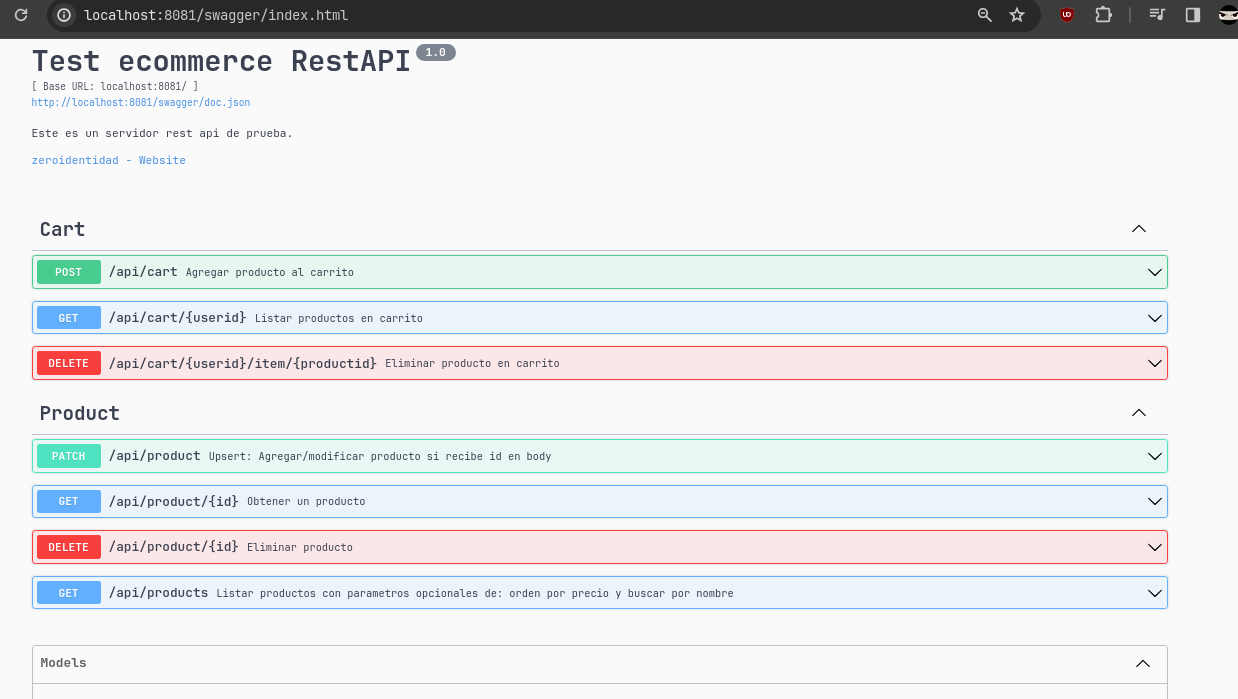
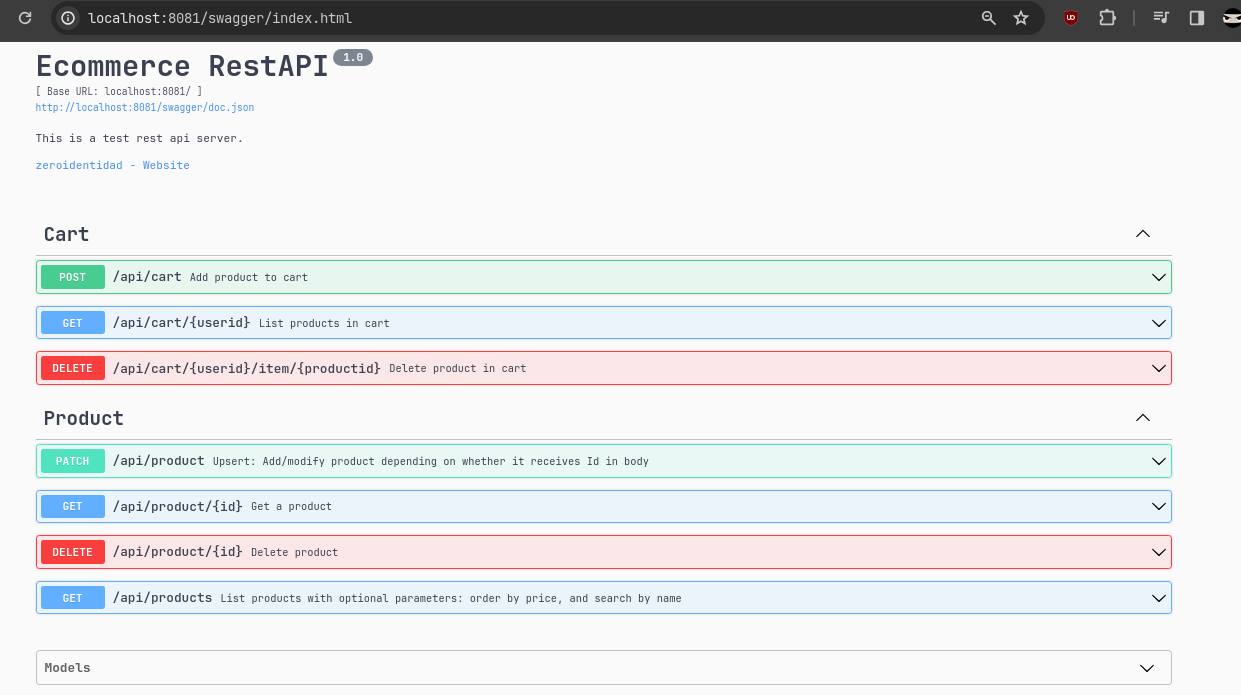
fix translation typos

diff --git a/internal/transport/http/docs/docs.go b/internal/transport/http/docs/docs.go
@@ -29,7 +29,7 @@ const docTemplate = `{
                 "tags": [
                     "Cart"
                 ],
-                "summary": "Agregar producto al carrito",
+                "summary": "Add product to cart",
                 "parameters": [
                     {
                         "description": "Cart data",
@@ -59,11 +59,11 @@ const docTemplate = `{
                 "tags": [
                     "Cart"
                 ],
-                "summary": "Listar productos en carrito",
+                "summary": "List products in cart",
                 "parameters": [
                     {
                         "type": "string",
-                        "description": "Id usuario",
+                        "description": "user Id",
                         "name": "userid",
                         "in": "path",
                         "required": true
@@ -90,18 +90,18 @@ const docTemplate = `{
                 "tags": [
                     "Cart"
                 ],
-                "summary": "Eliminar producto en carrito",
+                "summary": "Delete product in cart",
                 "parameters": [
                     {
                         "type": "string",
-                        "description": "Id usuario",
+                        "description": "user Id",
                         "name": "userid",
                         "in": "path",
                         "required": true
                     },
                     {
                         "type": "string",
-                        "description": "Id producto",
+                        "description": "product Id",
                         "name": "productid",
                         "in": "path",
                         "required": true
@@ -128,7 +128,7 @@ const docTemplate = `{
                 "tags": [
                     "Product"
                 ],
-                "summary": "Upsert: Agregar/modificar producto si recibe id en body",
+                "summary": "Upsert: Add/modify product depending on whether it receives Id in body",
                 "parameters": [
                     {
                         "description": "Product data",
@@ -158,11 +158,11 @@ const docTemplate = `{
                 "tags": [
                     "Product"
                 ],
-                "summary": "Obtener un producto",
+                "summary": "Get a product",
                 "parameters": [
                     {
                         "type": "string",
-                        "description": "Id producto",
+                        "description": "product Id",
                         "name": "id",
                         "in": "path",
                         "required": true
@@ -184,11 +184,11 @@ const docTemplate = `{
                 "tags": [
                     "Product"
                 ],
-                "summary": "Eliminar producto",
+                "summary": "Delete product",
                 "parameters": [
                     {
                         "type": "string",
-                        "description": "Id Producto",
+                        "description": "product Id",
                         "name": "id",
                         "in": "path",
                         "required": true
@@ -212,7 +212,7 @@ const docTemplate = `{
                 "tags": [
                     "Product"
                 ],
-                "summary": "Listar productos con parametros opcionales de: orden por precio y buscar por nombre",
+                "summary": "List products with optional parameters: order by price, and search by name",
                 "parameters": [
                     {
                         "enum": [
@@ -292,8 +292,8 @@ var SwaggerInfo = &swag.Spec{
 	Host:             "localhost:8081",
 	BasePath:         "/",
 	Schemes:          []string{},
-	Title:            "Test ecommerce RestAPI",
-	Description:      "Este es un servidor rest api de prueba.",
+	Title:            "Ecommerce RestAPI",
+	Description:      "This is a test rest api server.",
 	InfoInstanceName: "swagger",
 	SwaggerTemplate:  docTemplate,
 	LeftDelim:        "{{",

diff --git a/internal/transport/http/handlers_product.go b/internal/transport/http/handlers_product.go
@@ -10,7 +10,7 @@ import (
 	"github.com/gorilla/mux"
 )
 
-// @Summary Upsert: Agregar/modificar producto si recibe id en body
+// @Summary Upsert: Add/modify product depending on whether it receives Id in body
 // @Tags Product
 // @Accept json
 // @Produce json
@@ -38,10 +38,10 @@ func (h *Handler) UpsertProduct(w http.ResponseWriter, r *http.Request) {
 	}
 }
 
-// @Summary Obtener un producto
+// @Summary Get a product
 // @Tags Product
 // @Produce json
-// @Param id path string true "Id producto"
+// @Param id path string true "product Id"
 // @Success 200 {object} http.Product "OK"
 // @Router /api/product/{id} [get]
 func (h *Handler) GetProduct(w http.ResponseWriter, r *http.Request) {
@@ -66,7 +66,7 @@ func (h *Handler) GetProduct(w http.ResponseWriter, r *http.Request) {
 	}
 }
 
-// @Summary Listar productos con parametros opcionales de: orden por precio y buscar por nombre
+// @Summary List products with optional parameters: order by price, and search by name
 // @Tags Product
 // @Produce json
 // @Param order query string false "order options" Enums(ASC, DESC)
@@ -91,10 +91,10 @@ func (h *Handler) GetProducts(w http.ResponseWriter, r *http.Request) {
 	}
 }
 
-// @Summary Eliminar producto
+// @Summary Delete product
 // @Tags Product
 // @Produce json
-// @Param id path string true "Id Producto"
+// @Param id path string true "product Id"
 // @Success 200 {object} http.message "OK"
 // @Router /api/product/{id} [delete]
 func (h *Handler) DeleteProduct(w http.ResponseWriter, r *http.Request) {

diff --git a/internal/transport/http/handlers_cart.go b/internal/transport/http/handlers_cart.go
@@ -10,7 +10,7 @@ import (
 	"github.com/gorilla/mux"
 )
 
-// @Summary Agregar producto al carrito
+// @Summary Add product to cart
 // @Tags Cart
 // @Accept json
 // @Produce json
@@ -38,10 +38,10 @@ func (h *Handler) PostItemCart(w http.ResponseWriter, r *http.Request) {
 	}
 }
 
-// @Summary Listar productos en carrito
+// @Summary List products in cart
 // @Tags Cart
 // @Produce json
-// @Param userid path string true "Id usuario"
+// @Param userid path string true "user Id"
 // @Success 200 {array} http.Cart "OK"
 // @Router /api/cart/{userid} [get]
 func (h *Handler) GetItemsCart(w http.ResponseWriter, r *http.Request) {
@@ -66,11 +66,11 @@ func (h *Handler) GetItemsCart(w http.ResponseWriter, r *http.Request) {
 	}
 }
 
-// @Summary Eliminar producto en carrito
+// @Summary Delete product in cart
 // @Tags Cart
 // @Produce json
-// @Param userid path string true "Id usuario"
-// @Param productid path string true "Id producto"
+// @Param userid path string true "user Id"
+// @Param productid path string true "product Id"
 // @Success 200 {object} http.message "OK"
 // @Router /api/cart/{userid}/item/{productid} [delete]
 func (h *Handler) DeleteItemCart(w http.ResponseWriter, r *http.Request) {

diff --git a/internal/transport/http/main.go b/internal/transport/http/main.go
@@ -38,9 +38,9 @@ func NewHandler(service EcommerceService) *Handler {
 	return h
 }
 
-// @title Test ecommerce RestAPI
+// @title Ecommerce RestAPI
 // @version 1.0
-// @description Este es un servidor rest api de prueba.
+// @description This is a test rest api server.
 // @contact.name zeroidentidad
 // @contact.url https://zeroidentidad.github.io/chat
 // @host localhost:8081

diff --git a/README.md b/README.md
@@ -49,21 +49,21 @@ serve.sh
 **Software tools usage:**
 
 - Go version **1.22** ```go.mod```
-- PostgreSQL **12** free remote intance
-- Swagger CLI & http-swagger **v2**
+- PostgreSQL **12** free remote instance
+- Swagger CLI and http-swagger **v2**
 - Air live reload ```.air.conf``` ```air.sh```
 
 All software was used under a Linux OS distro
 
 ## Usage 
 
-No get dependencies necessary with ```vendor``` included if using same version for local execution. In case of different go sdk version make downgrade to go module version and recreate vendoring deps with ```go mod tidy && go mod vendor```.
+No get dependencies necessary with ```vendor``` included if using same version for local execution. In case of different go sdk version make downgrade to appropriate go module version and recreate vendoring deps with ```go mod tidy && go mod vendor```.
 
 ### How to execute
 
 At root directory:
 
-- **Option 1:** Without build, run ```go run ./cmd/server``` or simply using **.sh** script ```./serve.sh```
+- **Option 1:** Without build, run ```go run ./cmd/server``` or simply use **.sh** script ```./serve.sh```
 
 - **Option 2:** With build, run ```go build -o ./serveapi ./cmd/server```, then run ```./serveapi```
 
